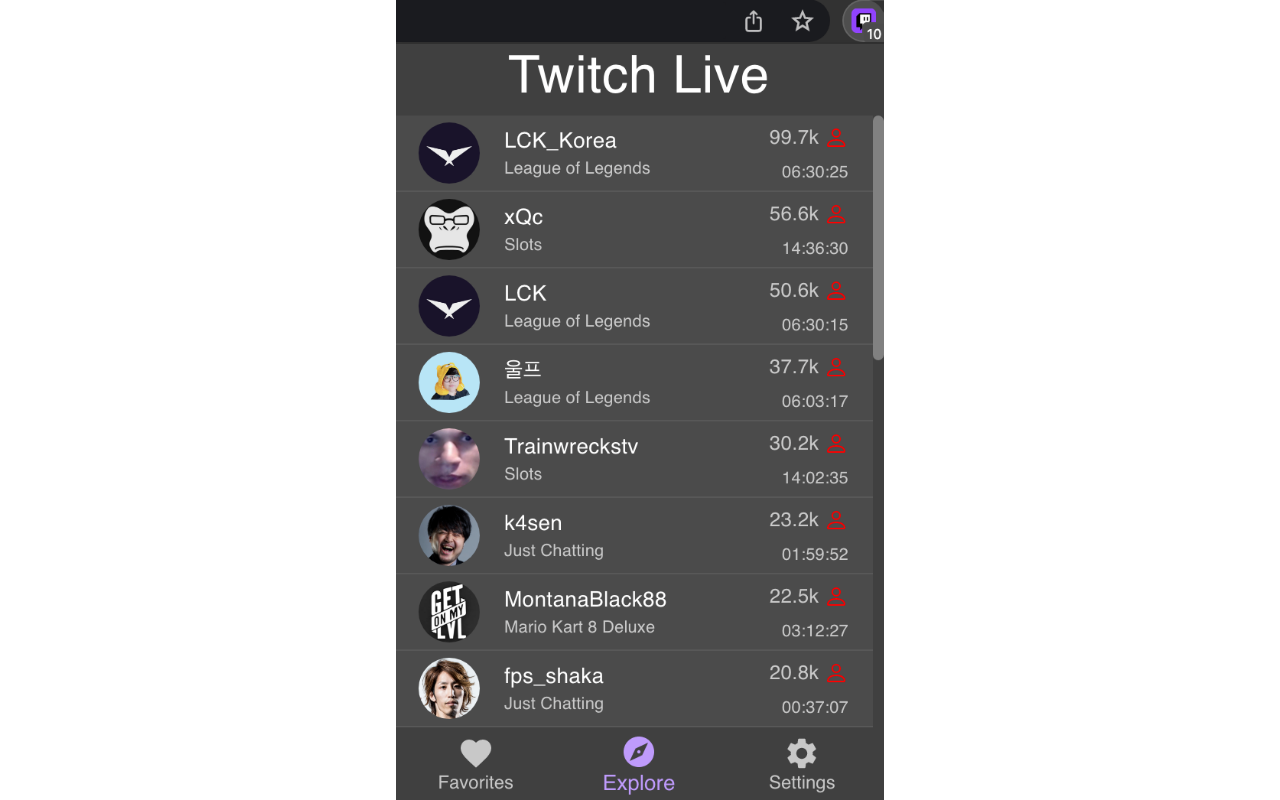
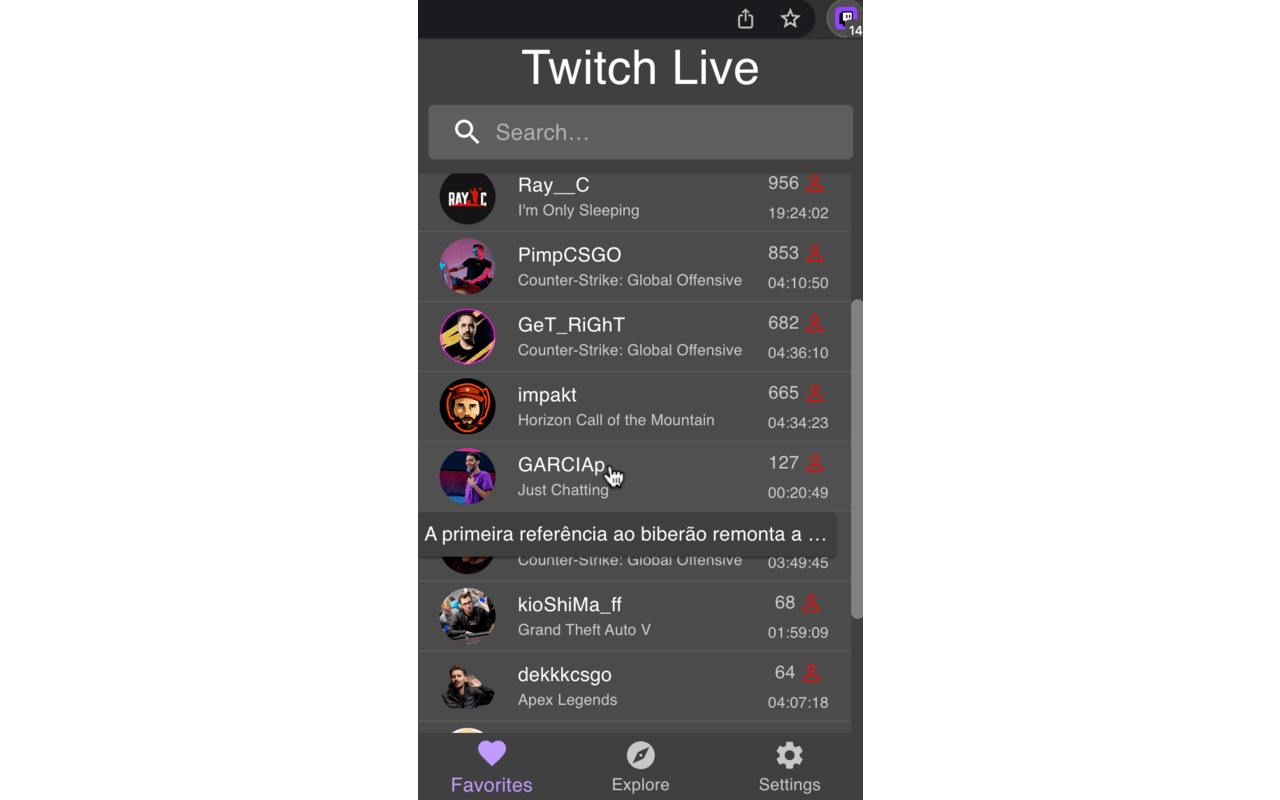
Update documentation and extension version

Changed region(s): [[0.3125, 0.0, 0.6875, 1.0], [0.4688, 0.9062, 0.5312, 1.0]]

diff --git a/changelogs/4_1_0.md b/changelogs/4_1_0.md
@@ -1,0 +1,12 @@
+# Twitch Live Extension v4.1.0
+
+You can now search through your followed live streams. 
+While this is an experimental feature, you now have a search bar where you can type part or the complete username instead 
+of scrolling through the list. If your input matches more than one stream, the extension will show them all.
+
+If you find a bug with this new feature, you can report it [here](https://github.com/PedroS11/twitch-live-extension/issues)
+as this is something new and some users have way more follows than me. 
+On these scenarios, I'd like to know if you find any performance issues. If not, I may add the search bar to the Top Streams page too!
+
+![Extension](../assets/extension_with_search_changelog.png "Extension")
+![Extension Search Results](../assets/extension_with_search_results_changelog.png "Extension Search Results")

diff --git a/README.md b/README.md
@@ -32,9 +32,9 @@ There's also a button to log out of the Twitch account you are using on the exte
 
 The extension is available for [Chrome/Microsoft Edge](https://chrome.google.com/webstore/detail/twitch-live-extension/nlnfdlcbnpafokhpjfffmoobbejpedgj?hl=pt-PT&authuser=0) and [Firefox](https://addons.mozilla.org/en-US/firefox/addon/twitch-live-extension/).
 
-
-![Extension List](./assets/extension_no_hover_icon_changelog.png "Extension")
-![Extension Over](./assets/extension_hover_icon_changelog.png "Extension Over")
+![Extension](./assets/extension_with_search_changelog.png "Extension")
+![Extension Hover](./assets/extension_hover_changelog.png "Extension Hover")
+![Extension Search Results](./assets/extension_with_search_results_changelog.png "Extension Search Results")
 
 ## Explore Top Livestreams
 
